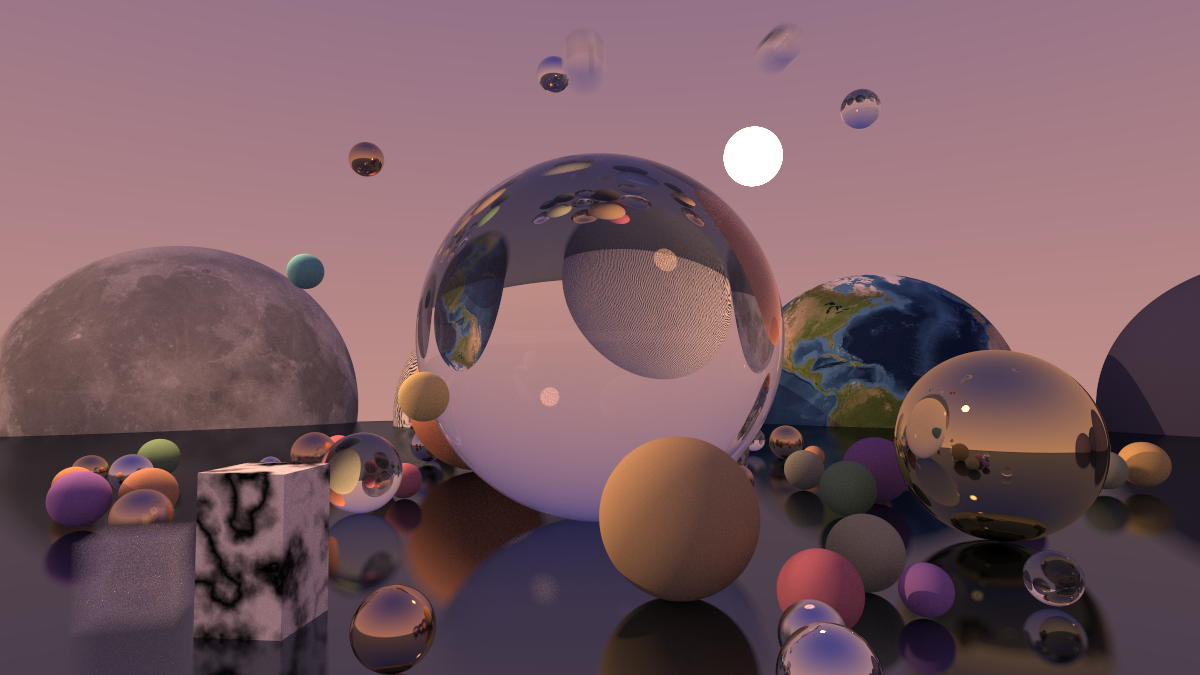
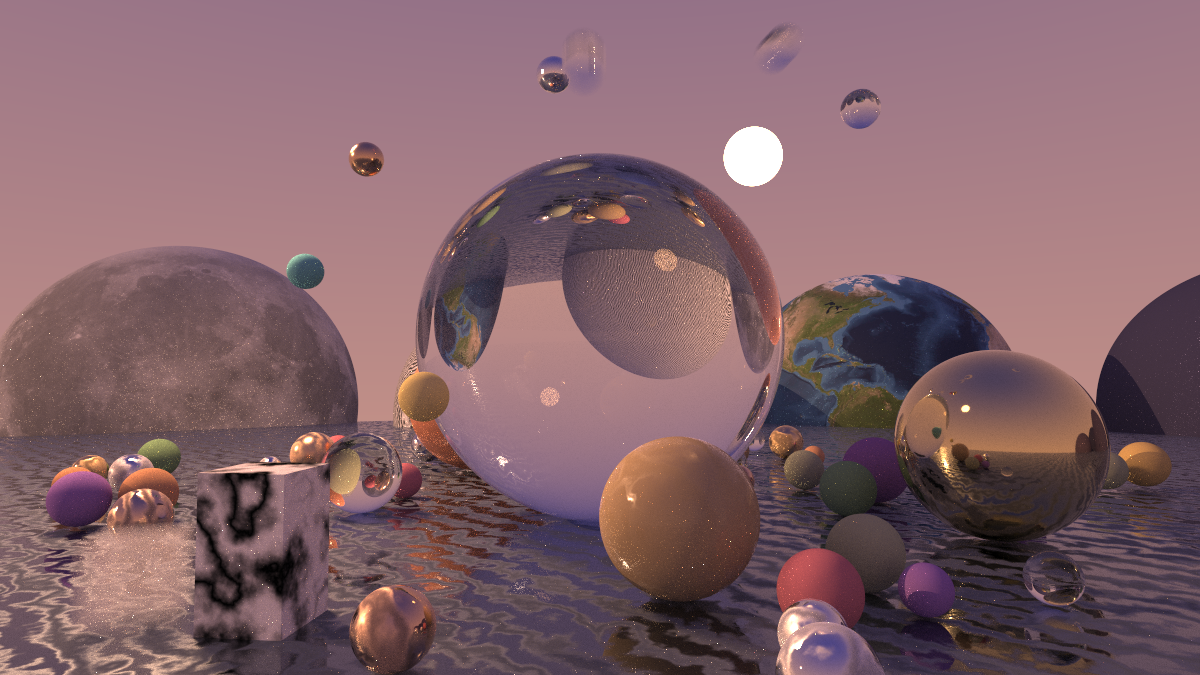
update showcase image

diff --git a/README.md b/README.md
@@ -17,7 +17,7 @@ This project requires the `Lute` runtime. You can find the local setup instructi
 Before rendering the scene, you may want to adjust the sample count. This can be done by passing it as a positional numeric argument when launching the program.
 
 Performance depends on your hardware, but 10 samples per pixel shouldn't take more than a minute at the moment.
-> _the render above took 500 samples per pixel._
+> _the render above took 100 samples per pixel._
 
 Launch:
 ```sh